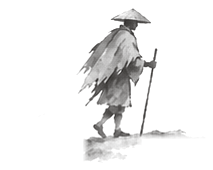
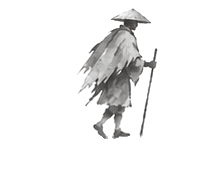
Ink face: the hiker hand-erased (art/edits/hiker.png); ChatGPT's pass transparency noted, left as painted

Changed region(s): [[0.3944, 0.7647, 0.8732, 0.9412]]

diff --git a/watch-faces/japanese-ink-heartrate/PROCEDURE.md b/watch-faces/japanese-ink-heartrate/PROCEDURE.md
@@ -475,6 +475,10 @@ If generated by a Pillow script, commit the script to `scripts/gen-<assetname>.p
   from); `art/edits/hiker.png` is there for John to erase more ground off
   the hiker. Mocks `~/Downloads/ink-face-combinations-winter-fixed.png`,
   `ink-face-lantern-solid.png`.
+  John erased the hiker by hand the same evening (now 21x34). Noted, not
+  corrected: ChatGPT's mountain pass reads semi-transparent the same way
+  (its pale rocks are paper); it may be the painting's style, so the snow
+  fix stays on winter unless John asks for it there.
 
 - **2026-11-05 the seal is from the sheet, and its shape tells effort.**
   The red square the View drew under the time is gone: `bake_props.py`
